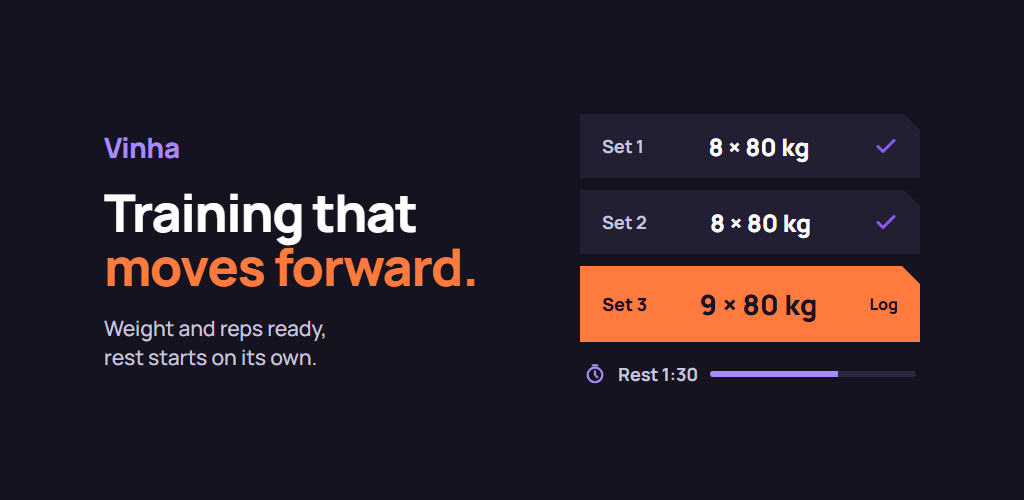
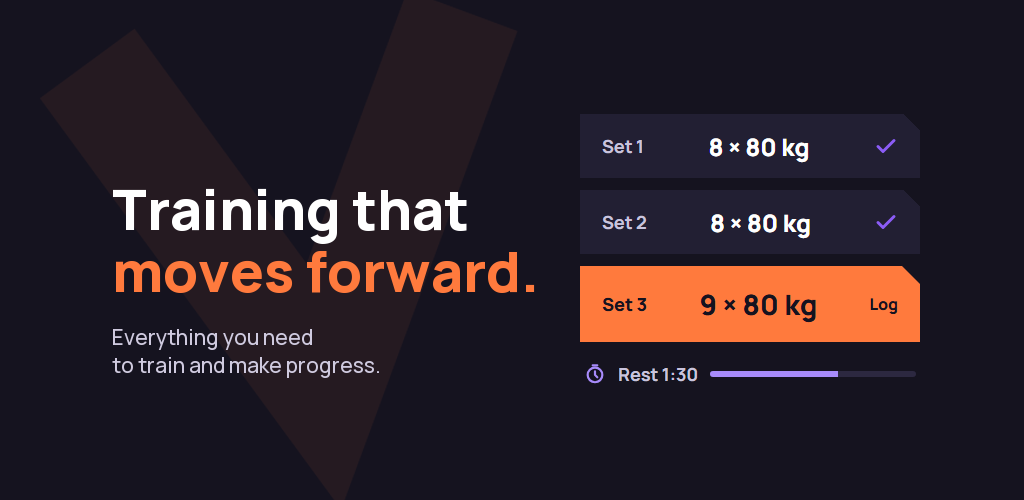
Store listing: feature graphic with the Cut V mark behind the tagline, new line under it (owner's pick)

Changed region(s): [[0.0938, 0.36, 0.5312, 0.6], [0.0938, 0.63, 0.375, 0.75], [0.0938, 0.27, 0.1875, 0.33]]

diff --git a/docs/store-listing.md b/docs/store-listing.md
@@ -273,7 +273,7 @@ Things the text deliberately leaves out:
 | Asset | Size | State |
 |---|---|---|
 | Icon | 512×512 PNG | Ready: `assets/branding/vinha-play-store-512.png` |
-| Feature graphic | 1024×500, no alpha | Ready (2026-10-09, direction B of three): `assets/branding/vinha-feature-graphic-fi.png` and `-en.png`. The tagline beside three logged sets and the rest timer, no device frame, not a copy of the icon. Source: the design canvas https://claude.ai/artifact/DHfonRGakXAhdMkBEni49Q |
+| Feature graphic | 1024×500, no alpha | Ready (2026-10-09, direction B of three; redrawn 2026-10-14): `assets/branding/vinha-feature-graphic-fi.png` and `-en.png`. The tagline and "Kaikki mitä tarvitset treenaamiseen ja kehittymiseen" / "Everything you need to train and make progress" beside three logged sets and the rest timer, the Cut V mark faint behind the text in place of the word Vinha (owner, 2026-10-14). No device frame. Source: the design canvas https://claude.ai/artifact/DHfonRGakXAhdMkBEni49Q |
 | Phone screenshots | 2–8, 1080×1920 recommended, at least 4 for recommendations | A set of 17 from 2026-09-14 exists (`Pictures\Vinha-kuvakaappaukset-2026-09-13\kauppakuvat-testi`), shot before many UI changes; reshoot from the release APK |
 
 Proposed eight, in this order, with the caption above the screen:
